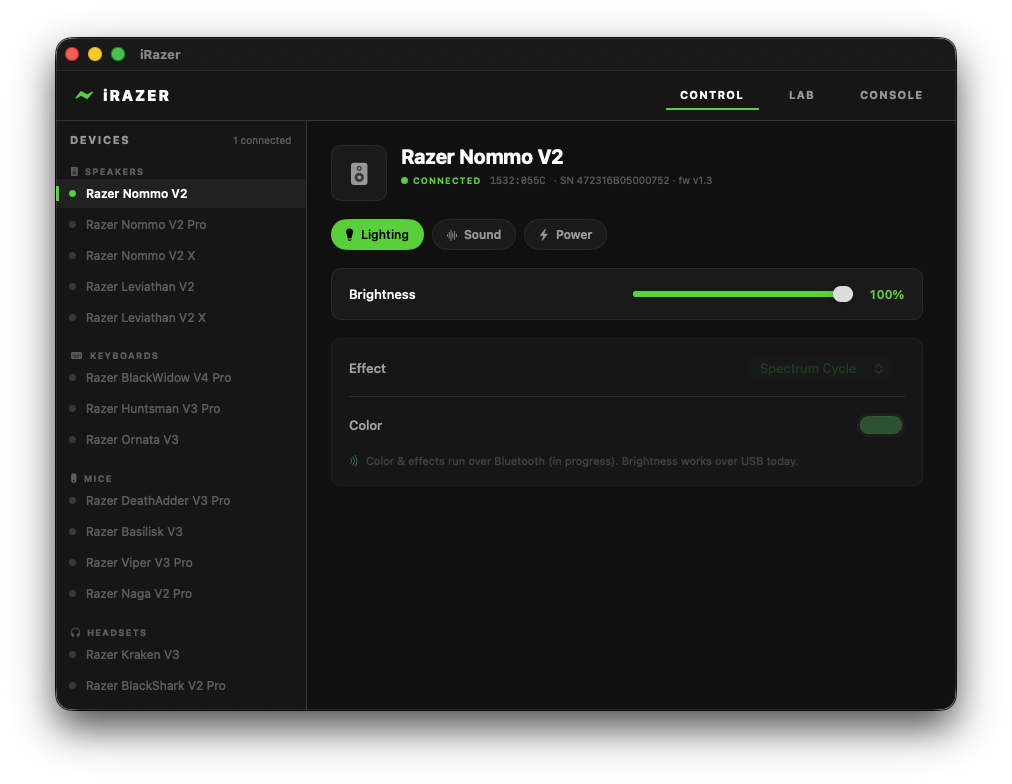
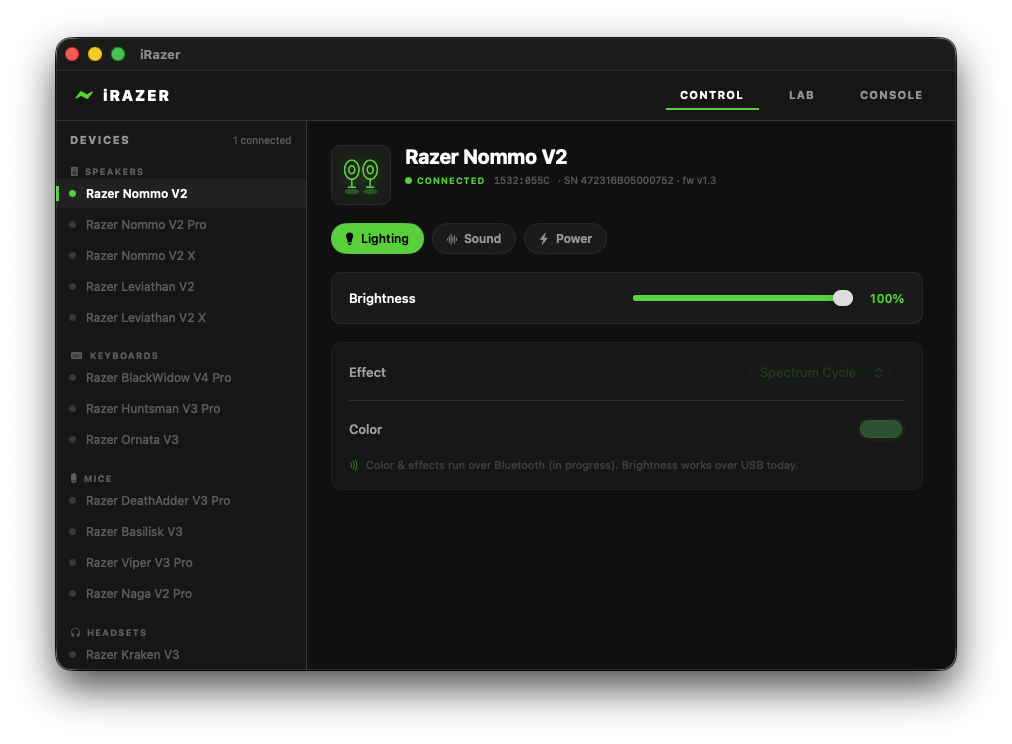
Fix Nommo glyph to round speakers; refresh app screenshot
The Nommo V2 speakers are spherical, not oval — change the glyph (SVG + SwiftUI)
from tall ellipses to circles. Recapture the hero screenshot with the corrected
round-speaker header glyph at full brightness.

diff --git a/Sources/iRazer/DeviceGlyph.swift b/Sources/iRazer/DeviceGlyph.swift
@@ -29,13 +29,14 @@ struct DeviceGlyph: View {
 
             switch category {
             case .speakers:
-                ctx.fill(ellipse(18, 43, 13, 3.2), with: underglow)
-                ctx.fill(ellipse(46, 43, 13, 3.2), with: underglow)
+                // Round spheres (the Nommo V2 speakers are round, not oval).
+                ctx.fill(ellipse(18, 43, 11, 3), with: underglow)
+                ctx.fill(ellipse(46, 43, 11, 3), with: underglow)
                 for cx in [18.0, 46.0] {
-                    ctx.stroke(ellipse(cx, 20, 11, 14.5), with: ink, style: stroke)
-                    ctx.stroke(ellipse(cx, 20, 4.6, 4.6), with: ink, style: stroke)
-                    ctx.stroke(line(cx - 5, 39, cx + 5, 39), with: ink, style: stroke)
-                    ctx.stroke(line(cx, 34.5, cx, 41), with: ink, style: stroke)
+                    ctx.stroke(ellipse(cx, 18, 11, 11), with: ink, style: stroke)     // round body
+                    ctx.stroke(ellipse(cx, 18, 4.6, 4.6), with: ink, style: stroke)   // driver
+                    ctx.stroke(line(cx, 29, cx, 37), with: ink, style: stroke)        // neck
+                    ctx.stroke(line(cx - 5, 38, cx + 5, 38), with: ink, style: stroke) // base
                 }
             case .mousepads:
                 ctx.stroke(Path(roundedRect: CGRect(x: ox + 8 * sx, y: oy + 12 * sy,
